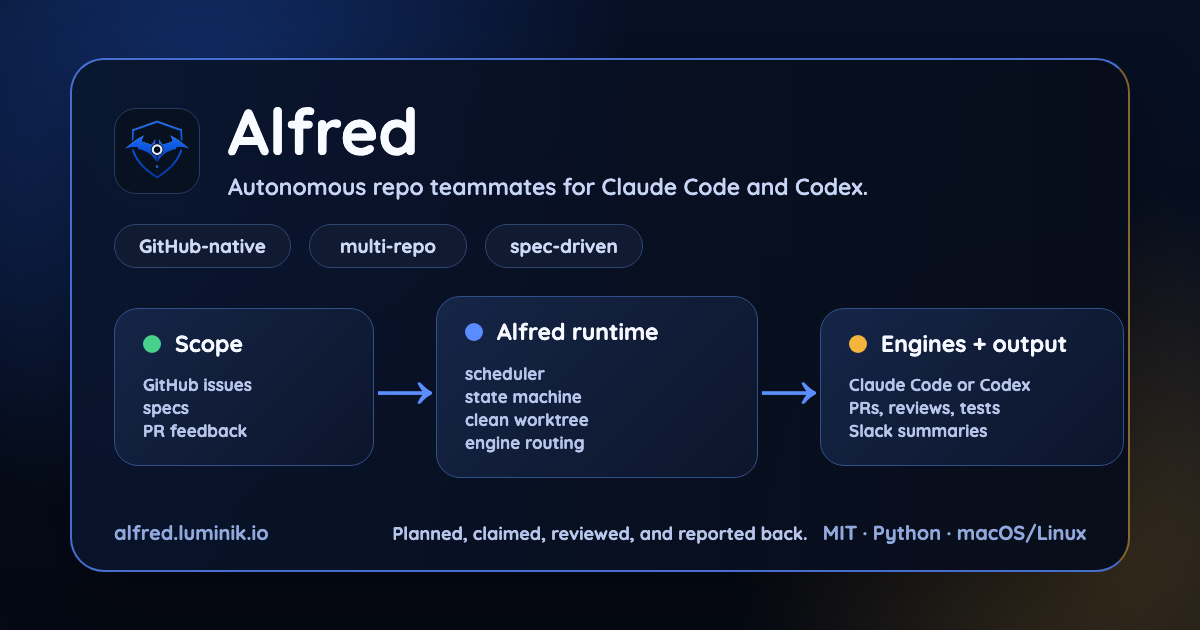
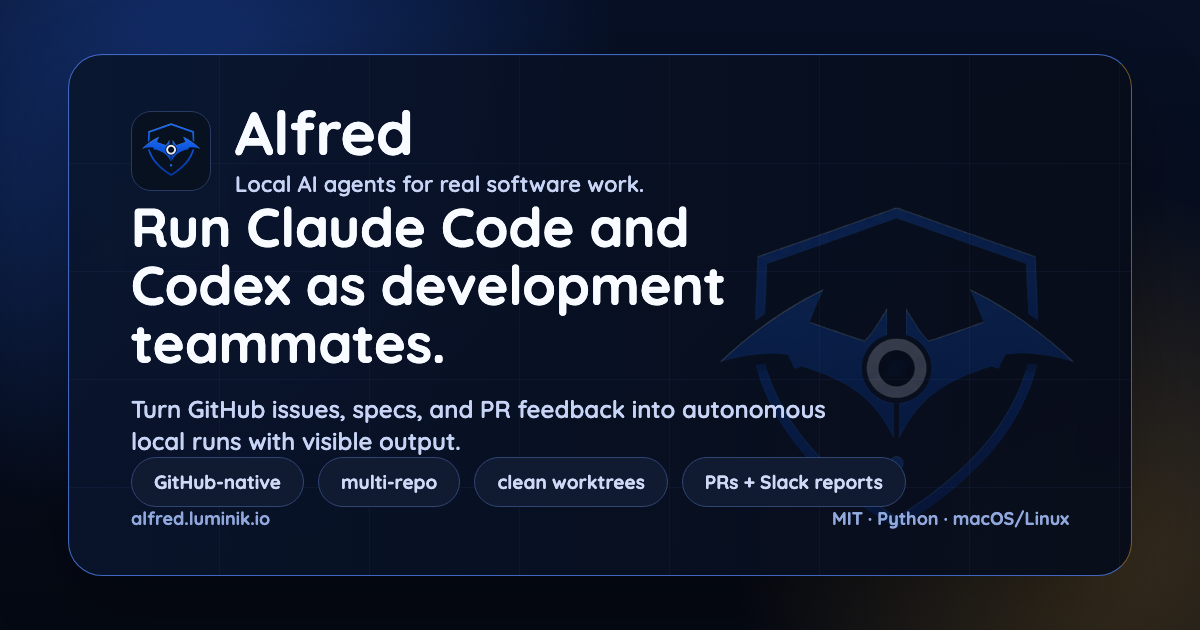
Clarify development teammate positioning

diff --git a/README.md b/README.md
@@ -11,11 +11,11 @@
 ![Linux](https://img.shields.io/badge/Linux-Debian%2FUbuntu-A81D33?logo=debian&logoColor=white)
 ![Python](https://img.shields.io/badge/Python-3.11%2B-3776AB?logo=python&logoColor=white)
 
-Alfred runs autonomous coding agents as repo teammates. It turns GitHub issues,
-specs, and PR feedback into scheduled local runs: Drake plans work, Lucius
-claims issues in fresh worktrees, Claude Code or Codex does the bounded task,
-and the fleet opens PRs, reviews them, fixes comments, adds tests, and reports
-to Slack.
+Alfred runs autonomous coding agents as development teammates. It turns GitHub
+issues, specs, and PR feedback into scheduled local runs: Drake plans work,
+Lucius claims issues in fresh worktrees, Claude Code or Codex does the bounded
+task, and the fleet opens PRs, reviews them, fixes comments, adds tests, and
+reports to Slack.
 
 Docs site: https://alfred.luminik.io
 